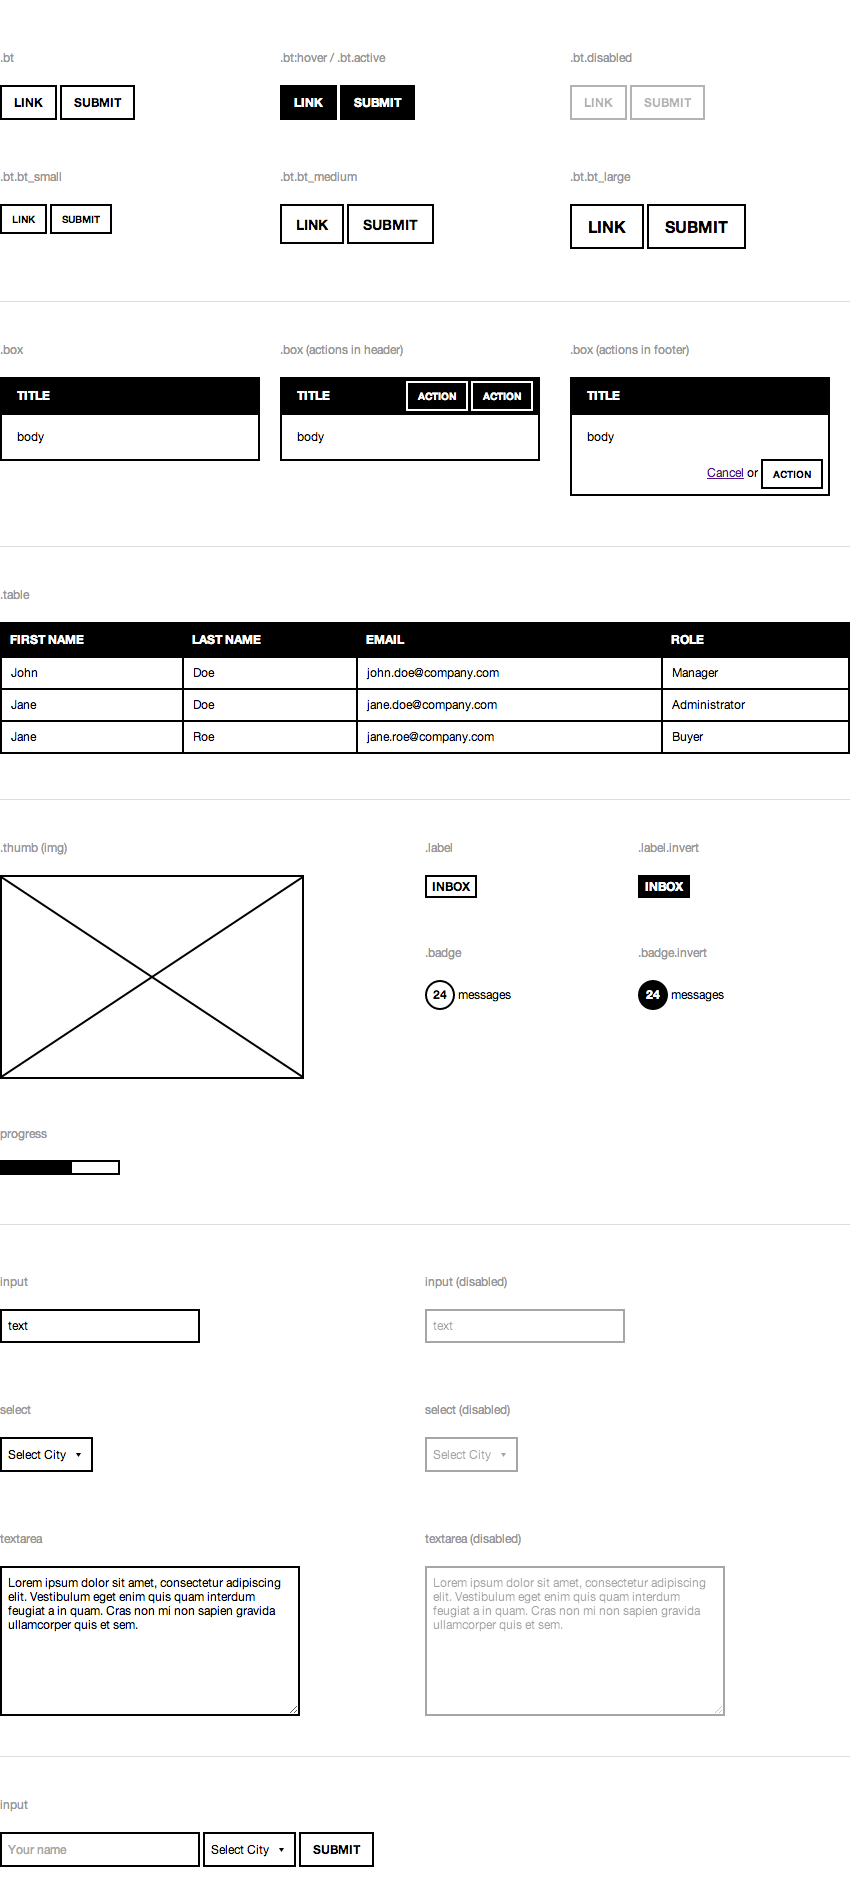
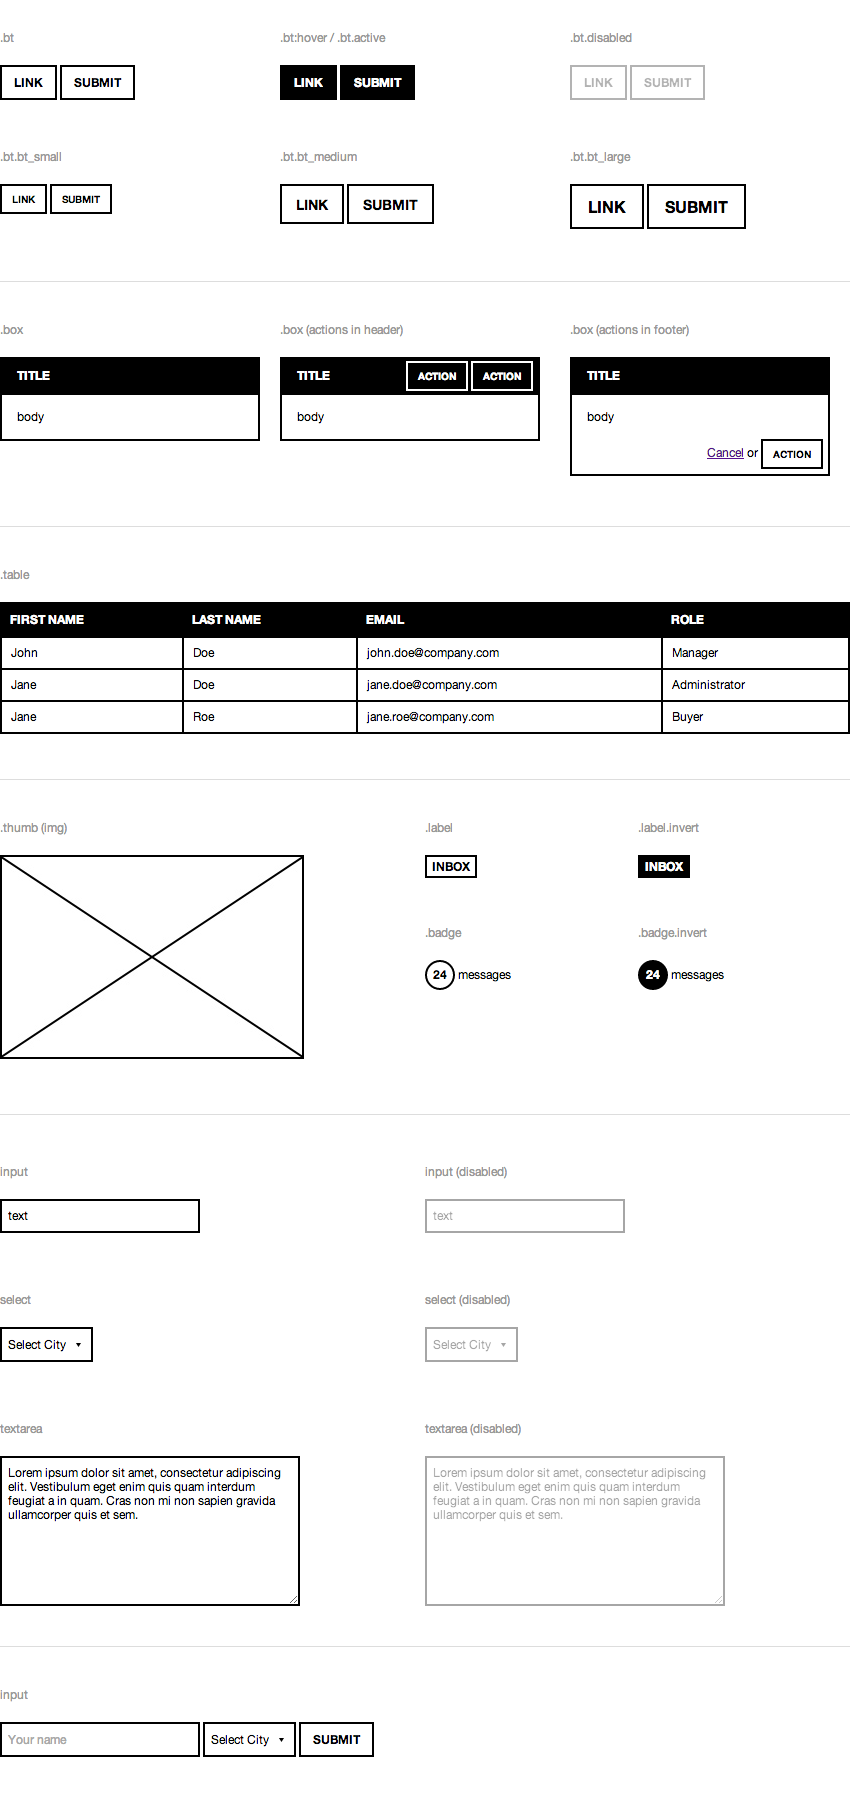
simple.ui - removed progress / readme update

diff --git a/index.html b/index.html
@@ -21,7 +21,7 @@
 <div class="content">
   <div class="description">
     <h1>Simple.ui</h1>
-    <p>Nope, it's not another framework. This is a set of (IMO) the most popular components used in many web applications. These components can act as a "core" for a fresh development, are fully customizable and the markup is minimal so you can use them as you please. You don't have to worry about browser issues as they were tested against cross-browser and cross-platform compatibility:</p>
+    <p>Nope, it's not another framework. This is a set of (IMO) the most popular components used in many web applications. These components can act as a "core" for a fresh development, are fully customizable and the markup is minimal so you can use and style them as you please. You don't have to worry about browser issues as they were tested against cross-browser and cross-platform compatibility:</p>
     <ul>
       <li>Chrome</li>
       <li>Safar</li>
@@ -155,11 +155,6 @@
   <div class="component">
     <h3>.thumb (img)</h3>
     <img src="images/img.jpg" alt="sample image" class="thumb" />
-  </div>
-
-  <div class="component">
-    <h3>progress</h3>
-    <progress value="60" max="100">60%</progress>
   </div>
 
   <hr>

diff --git a/sass/application.scss b/sass/application.scss
@@ -28,10 +28,9 @@ $legacy-support-for-mozilla: false;
 @import "components/buttons";
 @import "components/inputs";
 @import "components/labels";
-@import "components/progress";
 @import "components/table";
 
 
 // --- pages ----------------------------------------------------------------------------------------------------------
 
-@import "pages/content";
+@import "pages/main";

diff --git a/README.md b/README.md
@@ -4,7 +4,7 @@
 
 ### View it online: [demo](http://paranoida.github.com/simple-ui/)
 
-Nope, it's not another framework. This is a set of (IMO) the most popular components used in many web applications. These components can act as a "core" for a fresh development, are fully customizable and the markup is minimal so you can use them as you please. You don't have to worry about browser issues as they were tested against cross-browser & cross-platform compatibility:
+Nope, it's not another framework. This is a set of (IMO) the most popular components used in many web applications. These components can act as a "core" for a fresh development, are fully customizable and the markup is minimal so you can use and style them as you please. You don't have to worry about browser issues as they were tested against cross-browser & cross-platform compatibility:
 
 - Chrome
 - Safari
@@ -22,7 +22,6 @@ Nope, it's not another framework. This is a set of (IMO) the most popular compon
 - **buttons**
 - **inputs**
 - **labels**
-- **progress bar** - native html5 element (custom appearance only for **webkit** based browser)
 - **tables**
 
 #### Core:
